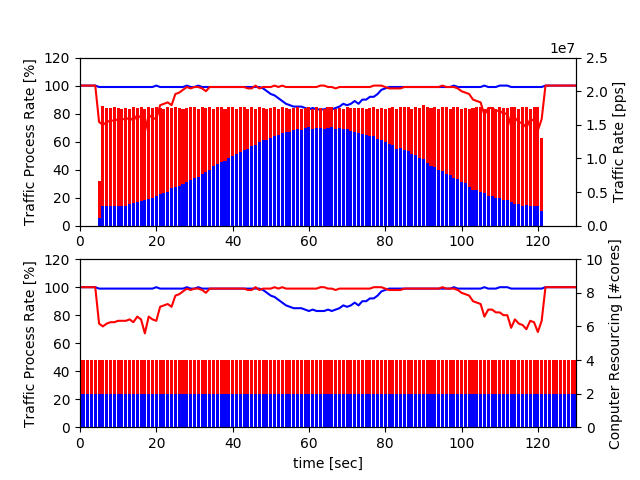
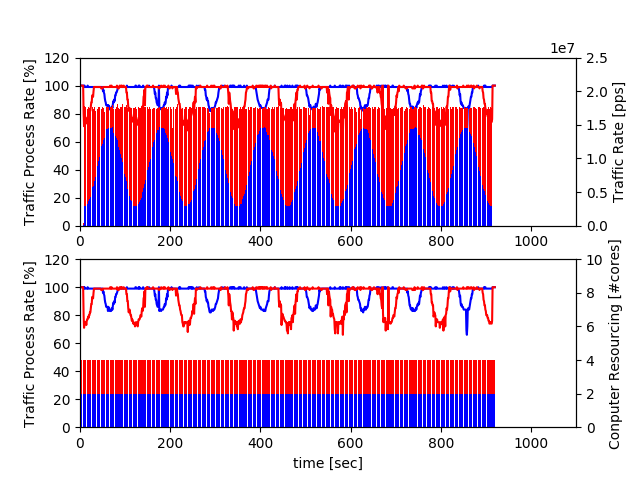
2018.01.20-06:30

Changed region(s): [[0.125, 0.1562, 0.9062, 0.5312], [0.125, 0.75, 0.9062, 0.9375], [0.125, 0.5938, 0.9062, 0.6875]]

diff --git a/figs/README.md b/figs/README.md
@@ -1,7 +1,14 @@
 
 #  D2 Optimization Experiment Result
 
-![](./d2disable_1fix.png)
+**Fixed Resourcing #core is 2**
+
 ![](./d2disable_2fix.png)
+
+**Fixed Resourcing #core is 4**
+
 ![](./d2disable_4fix.png)
+
+**D2 Auto Scaling**
+
 ![](./d2enable.png)
